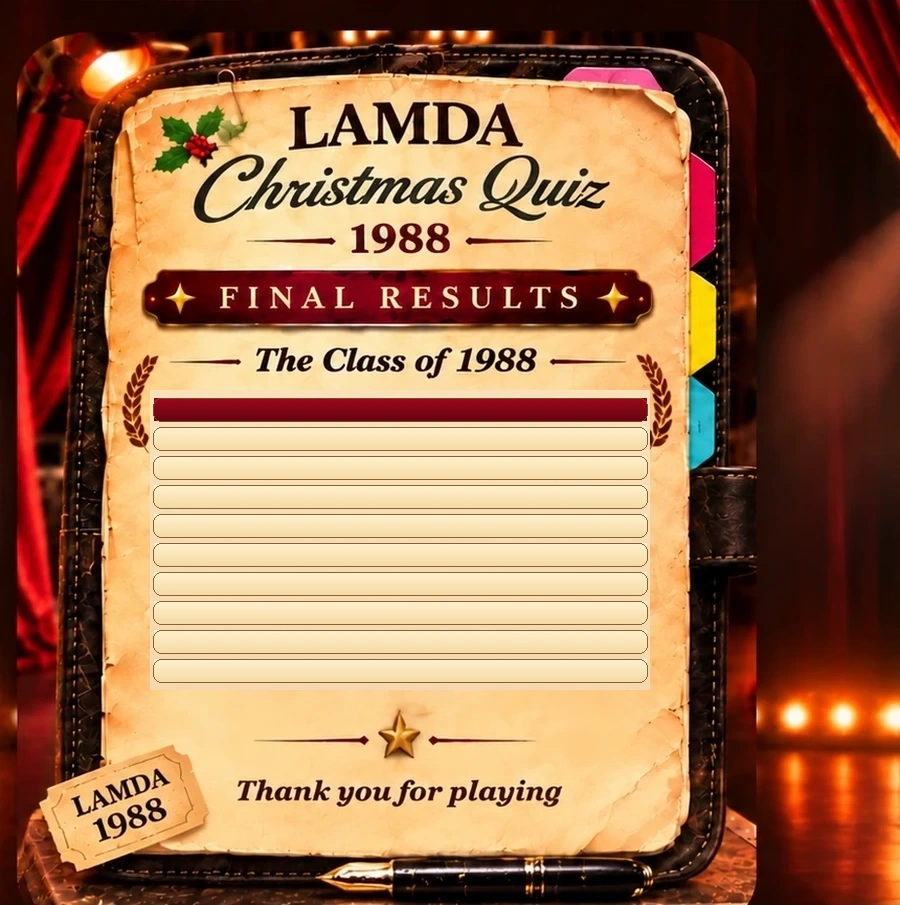
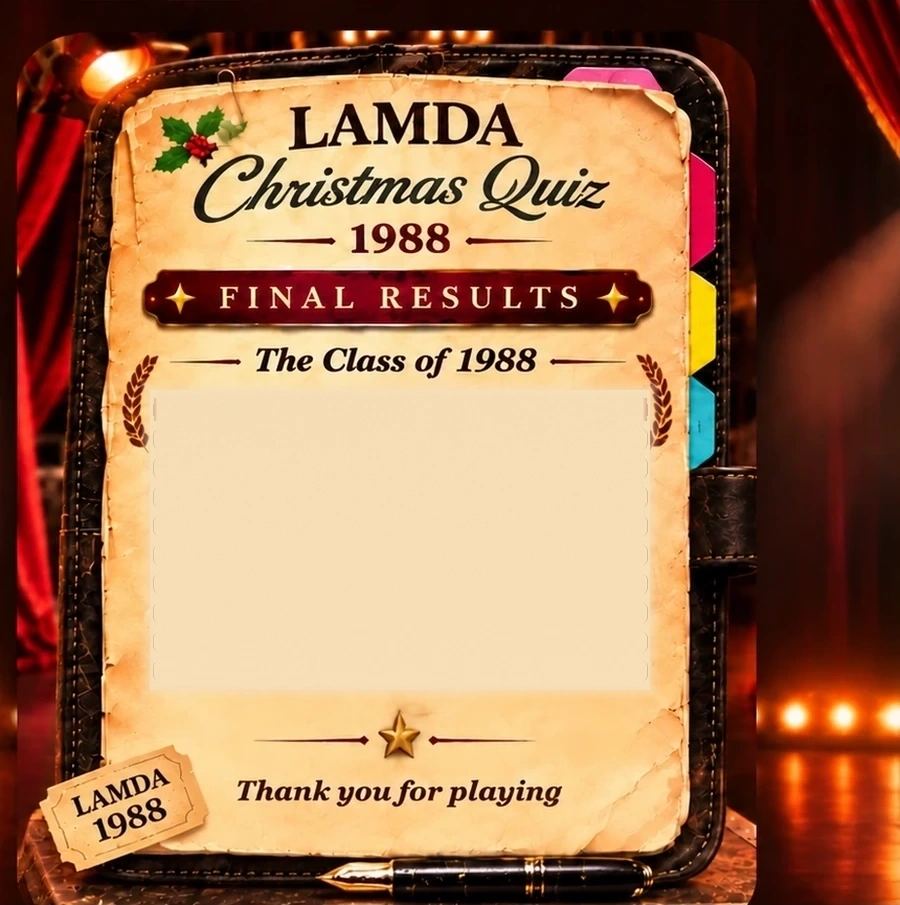
Add files via upload

diff --git a/index.html b/index.html
@@ -598,18 +598,18 @@ button:disabled{opacity:.5;cursor:not-allowed}
 }
 
 
-/* FINAL CONTESTANT RESULTS: one complete composition image per viewport, with one live overlay. */
+
+/* CONTESTANT FINAL RESULTS — single responsive artwork, one scrollable live leaderboard. */
 .player-results-screen{
   position:relative !important;
-  width:100% !important;
-  height:100vh !important;
-  height:100svh !important;
-  height:100dvh !important;
-  min-height:0 !important;
-  overflow:hidden !important;
   display:flex !important;
   align-items:center !important;
   justify-content:center !important;
+  width:100% !important;
+  min-height:100vh !important;
+  min-height:100svh !important;
+  min-height:100dvh !important;
+  overflow:hidden !important;
   background:#16070a !important;
 }
 .player-results-board{
@@ -617,6 +617,7 @@ button:disabled{opacity:.5;cursor:not-allowed}
   flex:none !important;
   width:min(100vw,175dvh) !important;
   aspect-ratio:1659 / 948 !important;
+  height:auto !important;
   max-height:none !important;
   overflow:hidden !important;
 }
@@ -631,6 +632,7 @@ button:disabled{opacity:.5;cursor:not-allowed}
   display:block !important;
   width:100% !important;
   height:100% !important;
+  max-width:none !important;
   object-fit:fill !important;
 }
 .player-results-list{
@@ -640,91 +642,101 @@ button:disabled{opacity:.5;cursor:not-allowed}
   width:28.69% !important;
   height:26.4% !important;
   box-sizing:border-box !important;
-  display:grid !important;
-  grid-template-columns:minmax(0,1fr) !important;
-  grid-template-rows:none !important;
-  grid-auto-flow:row !important;
-  grid-auto-rows:10% !important;
-  align-content:start !important;
-  gap:0 !important;
+  display:flex !important;
+  flex-direction:column !important;
+  align-items:stretch !important;
+  justify-content:flex-start !important;
+  gap:1px !important;
   overflow-x:hidden !important;
   overflow-y:auto !important;
   overscroll-behavior:contain !important;
-  -webkit-overflow-scrolling:touch;
-  scrollbar-width:thin;
+  -webkit-overflow-scrolling:touch !important;
+  scrollbar-width:none !important;
   list-style:none !important;
+  list-style-type:none !important;
   padding:0 !important;
   margin:0 !important;
   z-index:2 !important;
 }
+.player-results-list::-webkit-scrollbar{display:none !important}
 .player-results-list li{
-  position:relative !important;
+  all:unset !important;
   box-sizing:border-box !important;
-  width:100% !important;
-  min-width:0 !important;
-  min-height:0 !important;
-  height:auto !important;
-  max-height:none !important;
   display:grid !important;
-  grid-template-columns:8% minmax(0,1fr) 22% !important;
+  grid-template-columns:9% minmax(0,1fr) 25% !important;
   align-items:center !important;
-  gap:1% !important;
+  column-gap:1.5% !important;
+  flex:0 0 calc(10% - 1px) !important;
+  min-height:calc(10% - 1px) !important;
+  width:100% !important;
   margin:0 !important;
   padding:0 2.5% !important;
   overflow:hidden !important;
-  background:transparent !important;
-  background-image:none !important;
-  border:0 !important;
-  border-radius:0 !important;
-  box-shadow:none !important;
+  border:1px solid #9a6b37 !important;
+  border-radius:8px !important;
+  background:linear-gradient(180deg,#fff0c9 0%,#f2d7a2 100%) !important;
+  box-shadow:inset 0 1px 0 rgba(255,255,255,.7) !important;
   color:#4b2414 !important;
-  font:700 clamp(10px,1.0vw,17px)/1 Georgia,'Times New Roman',serif !important;
+  font:700 clamp(10px,1.05vw,17px)/1 Georgia,"Times New Roman",serif !important;
   white-space:nowrap !important;
+  list-style:none !important;
 }
+.player-results-list li::marker{content:"" !important;display:none !important}
 .player-results-list li:first-child{
+  border:1px solid #6d351c !important;
+  border-radius:8px !important;
+  background:linear-gradient(180deg,#a70e24 0%,#760817 100%) !important;
+  box-shadow:inset 0 1px 0 rgba(255,190,140,.28) !important;
   color:#fff0cb !important;
-  font-weight:800 !important;
 }
-.player-results-list .results-place,
-.player-results-list .results-player,
-.player-results-list .results-points{
-  position:static !important;
-  inset:auto !important;
+.player-results-list li > .results-place,
+.player-results-list li > .results-player,
+.player-results-list li > .results-points{
+  all:unset !important;
   display:block !important;
-  float:none !important;
-  transform:none !important;
+  box-sizing:border-box !important;
   min-width:0 !important;
   max-width:100% !important;
   margin:0 !important;
   padding:0 !important;
+  color:inherit !important;
+  font:inherit !important;
+  line-height:1 !important;
   white-space:nowrap !important;
 }
+.player-results-list .results-place{
+  grid-column:1 !important;
+  text-align:left !important;
+}
 .player-results-list .results-player{
+  grid-column:2 !important;
   overflow:hidden !important;
   text-overflow:ellipsis !important;
 }
 .player-results-list .results-points{
-  justify-self:end !important;
+  grid-column:3 !important;
   text-align:right !important;
-  font-size:.9em !important;
+  justify-self:stretch !important;
 }
 @media(max-width:700px) and (orientation:portrait){
   .player-results-board{
     width:min(100vw,72dvh) !important;
     aspect-ratio:900 / 905 !important;
-    max-height:none !important;
   }
   .player-results-list{
-    left:16.67% !important;
-    top:44.0% !important;
-    width:55.56% !important;
-    height:28.7% !important;
-    grid-auto-rows:10% !important;
+    left:17.0% !important;
+    top:43.95% !important;
+    width:54.7% !important;
+    height:28.6% !important;
+    gap:1px !important;
   }
   .player-results-list li{
-    grid-template-columns:8% minmax(0,1fr) 22% !important;
-    font-size:clamp(9px,2.3vw,14px) !important;
-    padding:0 2.2% !important;
+    flex:0 0 calc(10% - 1px) !important;
+    min-height:calc(10% - 1px) !important;
+    grid-template-columns:9% minmax(0,1fr) 25% !important;
+    font-size:clamp(10px,2.5vw,14px) !important;
+    border-radius:7px !important;
+    padding:0 2.4% !important;
   }
 }
 @media(max-width:700px) and (orientation:landscape){
